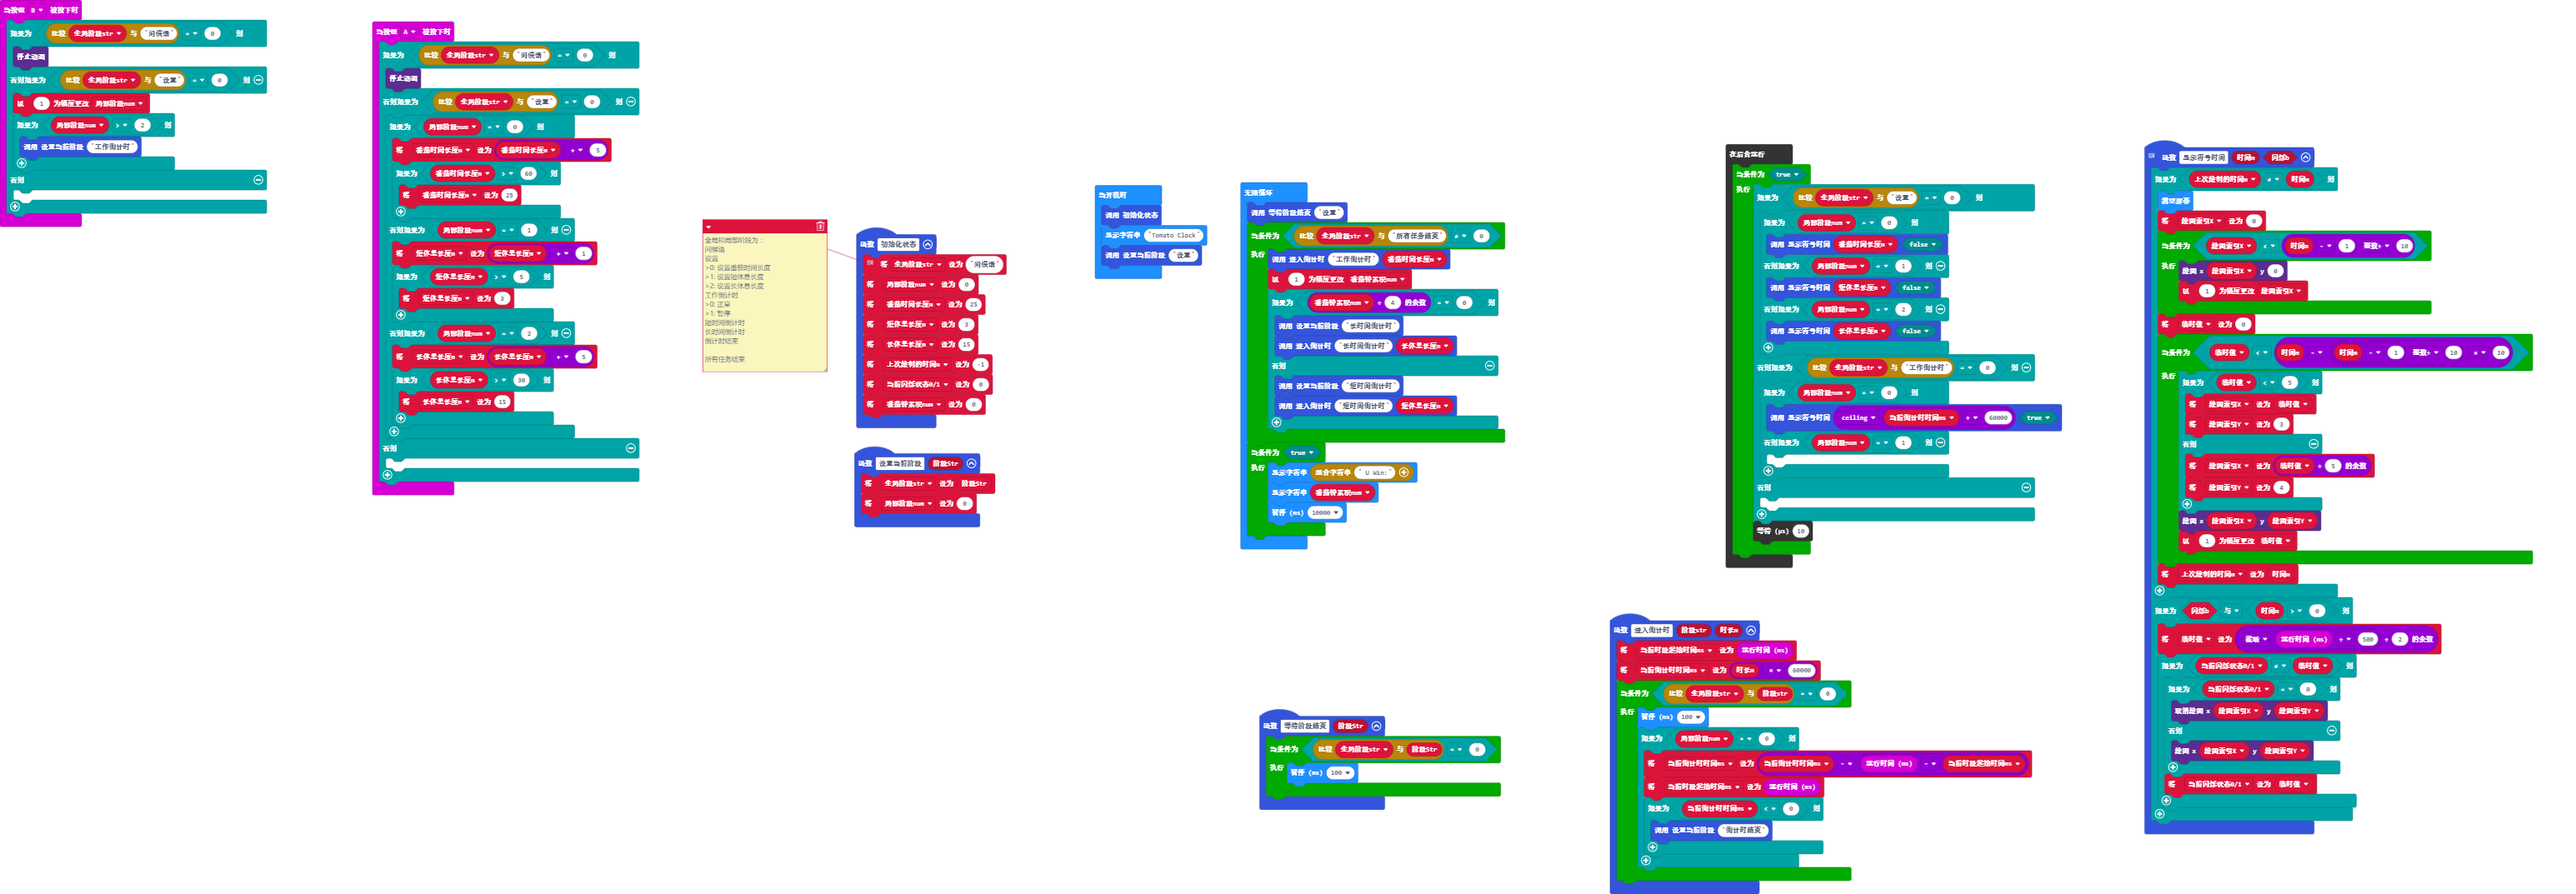
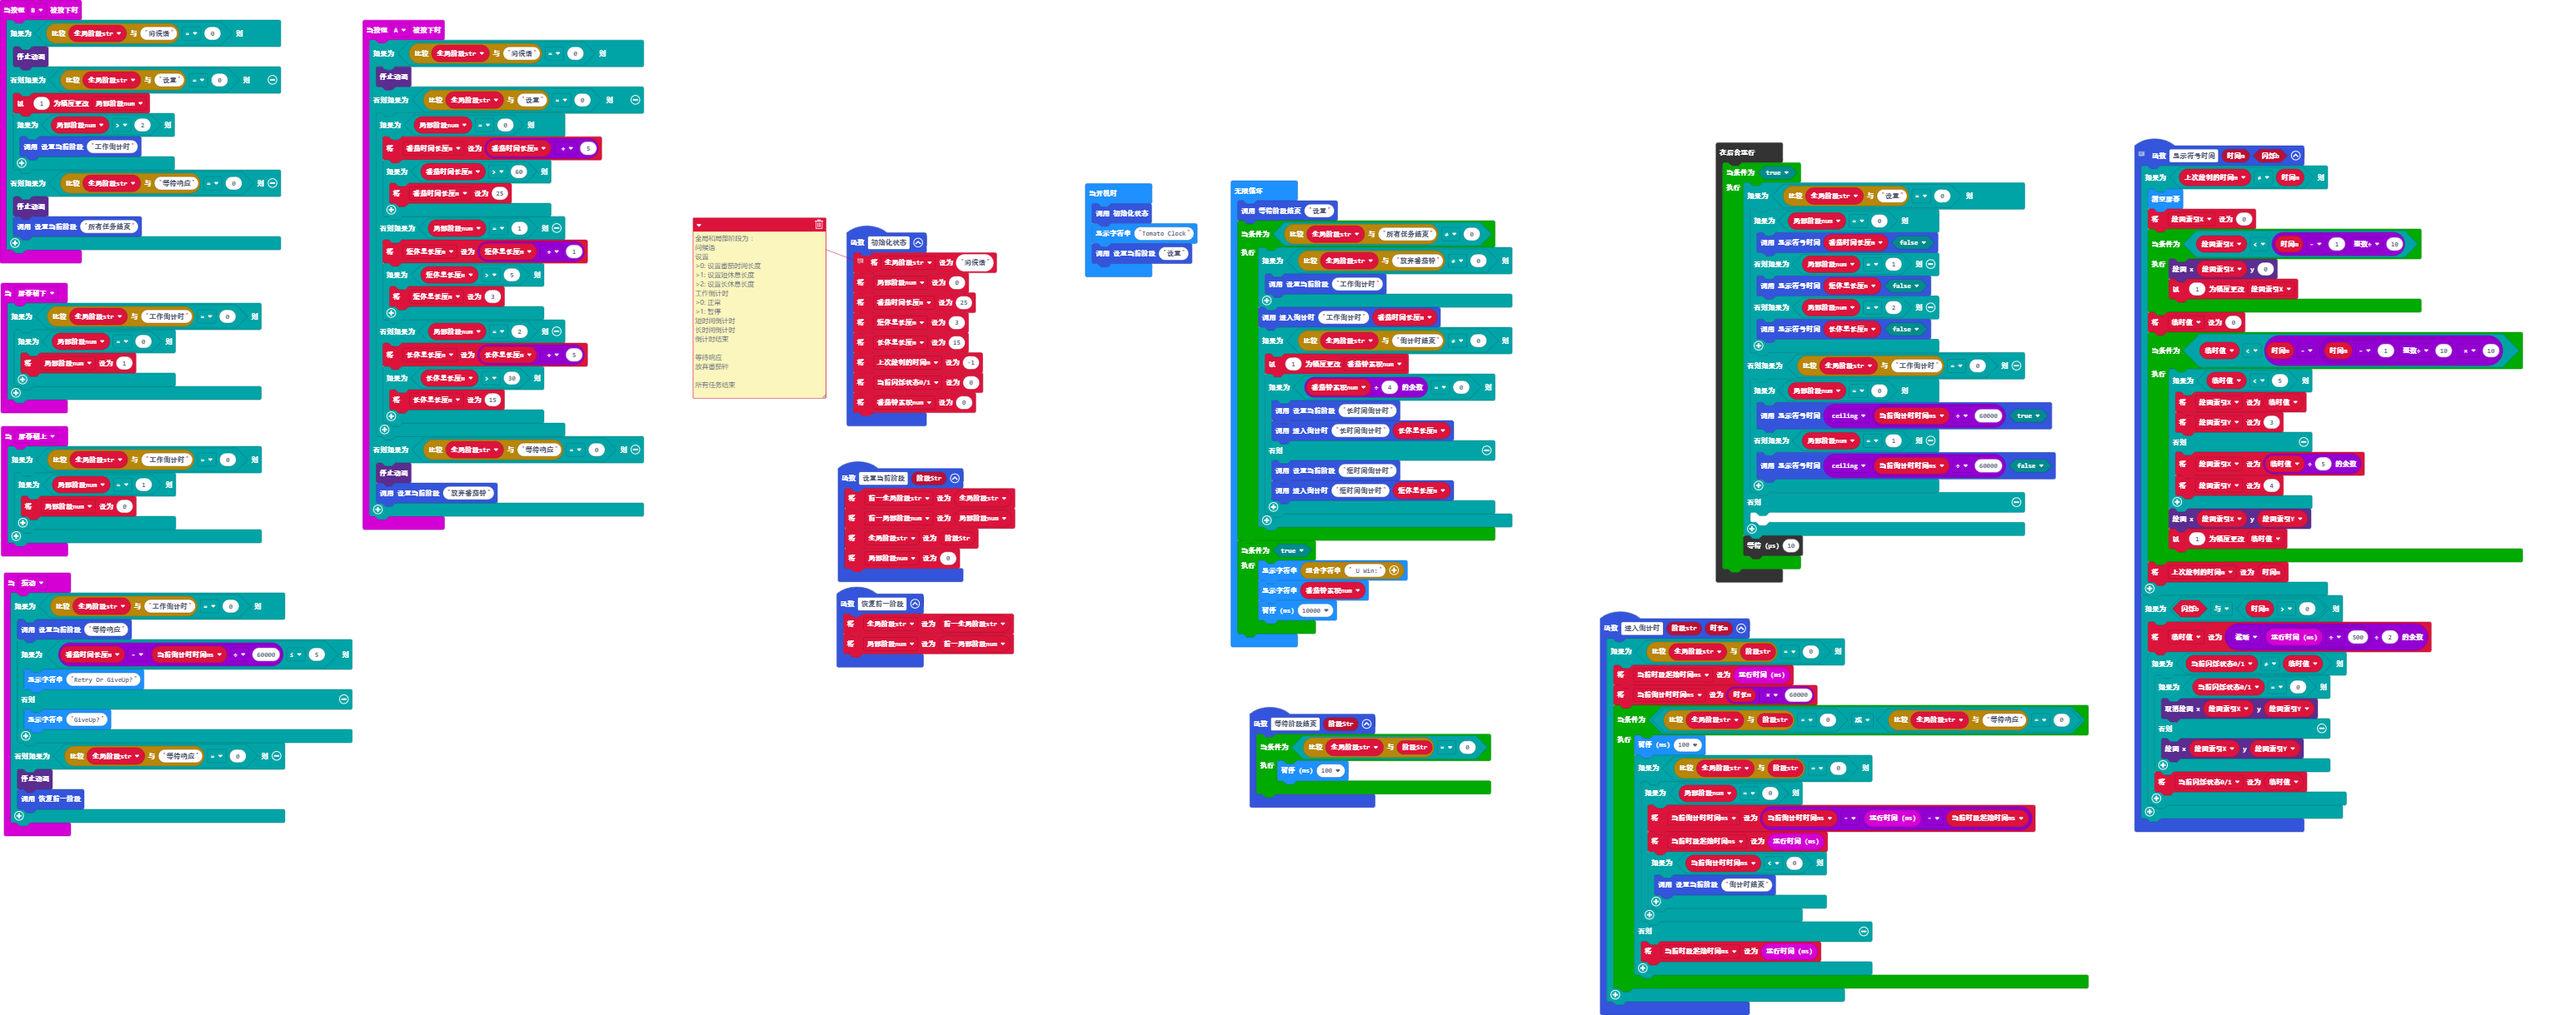
更新 main.blocks, main.ts

Changed region(s): [[0.0, 0.0, 0.5922, 0.8304], [0.6234, 0.123, 0.9974, 1.0], [0.4675, 0.6766, 0.5922, 0.9226]]

diff --git a/main.ts b/main.ts
@@ -1,3 +1,10 @@
+input.onGesture(Gesture.ScreenDown, function () {
+    if (全局阶段str.compare("工作倒计时") == 0) {
+        if (局部阶段num == 0) {
+            局部阶段num = 1
+        }
+    }
+})
 function 等待阶段结束 (阶段Str: string) {
     while (全局阶段str.compare(阶段Str) == 0) {
         basic.pause(100)
@@ -62,27 +69,53 @@ input.onButtonPressed(Button.A, function () {
                 长休息长度m = 15
             }
         }
-    } else {
-    	
+    } else if (全局阶段str.compare("等待响应") == 0) {
+        led.stopAnimation()
+        设置当前阶段("放弃番茄钟")
+    }
+})
+input.onGesture(Gesture.Shake, function () {
+    if (全局阶段str.compare("工作倒计时") == 0) {
+        设置当前阶段("等待响应")
+        if (番茄时间长度m - 当前倒计时时间ms / 60000 <= 5) {
+            basic.showString("Retry Or GiveUp?")
+        } else {
+            basic.showString("GiveUp?")
+        }
+    } else if (全局阶段str.compare("等待响应") == 0) {
+        led.stopAnimation()
+        恢复前一阶段()
     }
 })
 function 进入倒计时 (阶段str: string, 时长m: number) {
-    当前时段起始时间ms = input.runningTime()
-    当前倒计时时间ms = 时长m * 60000
-    while (全局阶段str.compare(阶段str) == 0) {
-        basic.pause(100)
-        if (局部阶段num == 0) {
-            当前倒计时时间ms = 当前倒计时时间ms - (input.runningTime() - 当前时段起始时间ms)
-            当前时段起始时间ms = input.runningTime()
-            if (当前倒计时时间ms < 0) {
-                设置当前阶段("倒计时结束")
+    if (全局阶段str.compare(阶段str) == 0) {
+        当前时段起始时间ms = input.runningTime()
+        当前倒计时时间ms = 时长m * 60000
+        while (全局阶段str.compare(阶段str) == 0 || 全局阶段str.compare("等待响应") == 0) {
+            basic.pause(100)
+            if (全局阶段str.compare(阶段str) == 0) {
+                if (局部阶段num == 0) {
+                    当前倒计时时间ms = 当前倒计时时间ms - (input.runningTime() - 当前时段起始时间ms)
+                    当前时段起始时间ms = input.runningTime()
+                    if (当前倒计时时间ms < 0) {
+                        设置当前阶段("倒计时结束")
+                    }
+                }
+            } else {
+                当前时段起始时间ms = input.runningTime()
             }
         }
     }
 }
 function 设置当前阶段 (阶段Str: string) {
+    前一全局阶段str = 全局阶段str
+    前一局部阶段num = 局部阶段num
     全局阶段str = 阶段Str
     局部阶段num = 0
+}
+function 恢复前一阶段 () {
+    全局阶段str = 前一全局阶段str
+    局部阶段num = 前一局部阶段num
 }
 input.onButtonPressed(Button.B, function () {
     if (全局阶段str.compare("问候语") == 0) {
@@ -92,8 +125,9 @@ input.onButtonPressed(Button.B, function () {
         if (局部阶段num > 2) {
             设置当前阶段("工作倒计时")
         }
-    } else {
-    	
+    } else if (全局阶段str.compare("等待响应") == 0) {
+        led.stopAnimation()
+        设置当前阶段("所有任务结束")
     }
 })
 function 初始化状态 () {
@@ -110,6 +144,9 @@ function 初始化状态 () {
     // 长时间倒计时
     // 倒计时结束
     // 
+    // 等待响应
+    // 放弃番茄钟
+    // 
     // 所有任务结束
     全局阶段str = "问候语"
     局部阶段num = 0
@@ -120,18 +157,27 @@ function 初始化状态 () {
     当前闪烁状态01 = 0
     番茄钟累积num = 0
 }
+input.onGesture(Gesture.ScreenUp, function () {
+    if (全局阶段str.compare("工作倒计时") == 0) {
+        if (局部阶段num == 1) {
+            局部阶段num = 0
+        }
+    }
+})
 let 番茄钟累积num = 0
-let 当前倒计时时间ms = 0
+let 前一局部阶段num = 0
+let 前一全局阶段str = ""
 let 当前时段起始时间ms = 0
+let 当前倒计时时间ms = 0
 let 长休息长度m = 0
 let 短休息长度m = 0
 let 番茄时间长度m = 0
-let 局部阶段num = 0
 let 当前闪烁状态01 = 0
 let 绘图索引Y = 0
 let 临时值 = 0
 let 绘图索引X = 0
 let 上次绘制的时间m = 0
+let 局部阶段num = 0
 let 全局阶段str = ""
 初始化状态()
 basic.showString("Tomato Clock")
@@ -139,14 +185,19 @@ basic.showString("Tomato Clock")
 basic.forever(function () {
     等待阶段结束("设置")
     while (全局阶段str.compare("所有任务结束") != 0) {
+        if (全局阶段str.compare("放弃番茄钟") != 0) {
+            设置当前阶段("工作倒计时")
+        }
         进入倒计时("工作倒计时", 番茄时间长度m)
-        番茄钟累积num += 1
-        if (番茄钟累积num % 4 == 0) {
-            设置当前阶段("长时间倒计时")
-            进入倒计时("长时间倒计时", 长休息长度m)
-        } else {
-            设置当前阶段("短时间倒计时")
-            进入倒计时("短时间倒计时", 短休息长度m)
+        if (全局阶段str.compare("倒计时结束") != 0) {
+            番茄钟累积num += 1
+            if (番茄钟累积num % 4 == 0) {
+                设置当前阶段("长时间倒计时")
+                进入倒计时("长时间倒计时", 长休息长度m)
+            } else {
+                设置当前阶段("短时间倒计时")
+                进入倒计时("短时间倒计时", 短休息长度m)
+            }
         }
     }
     while (true) {
@@ -169,7 +220,7 @@ control.inBackground(function () {
             if (局部阶段num == 0) {
                 显示符号时间(Math.ceil(当前倒计时时间ms / 60000), true)
             } else if (局部阶段num == 1) {
-            	
+                显示符号时间(Math.ceil(当前倒计时时间ms / 60000), false)
             }
         } else {
         	
